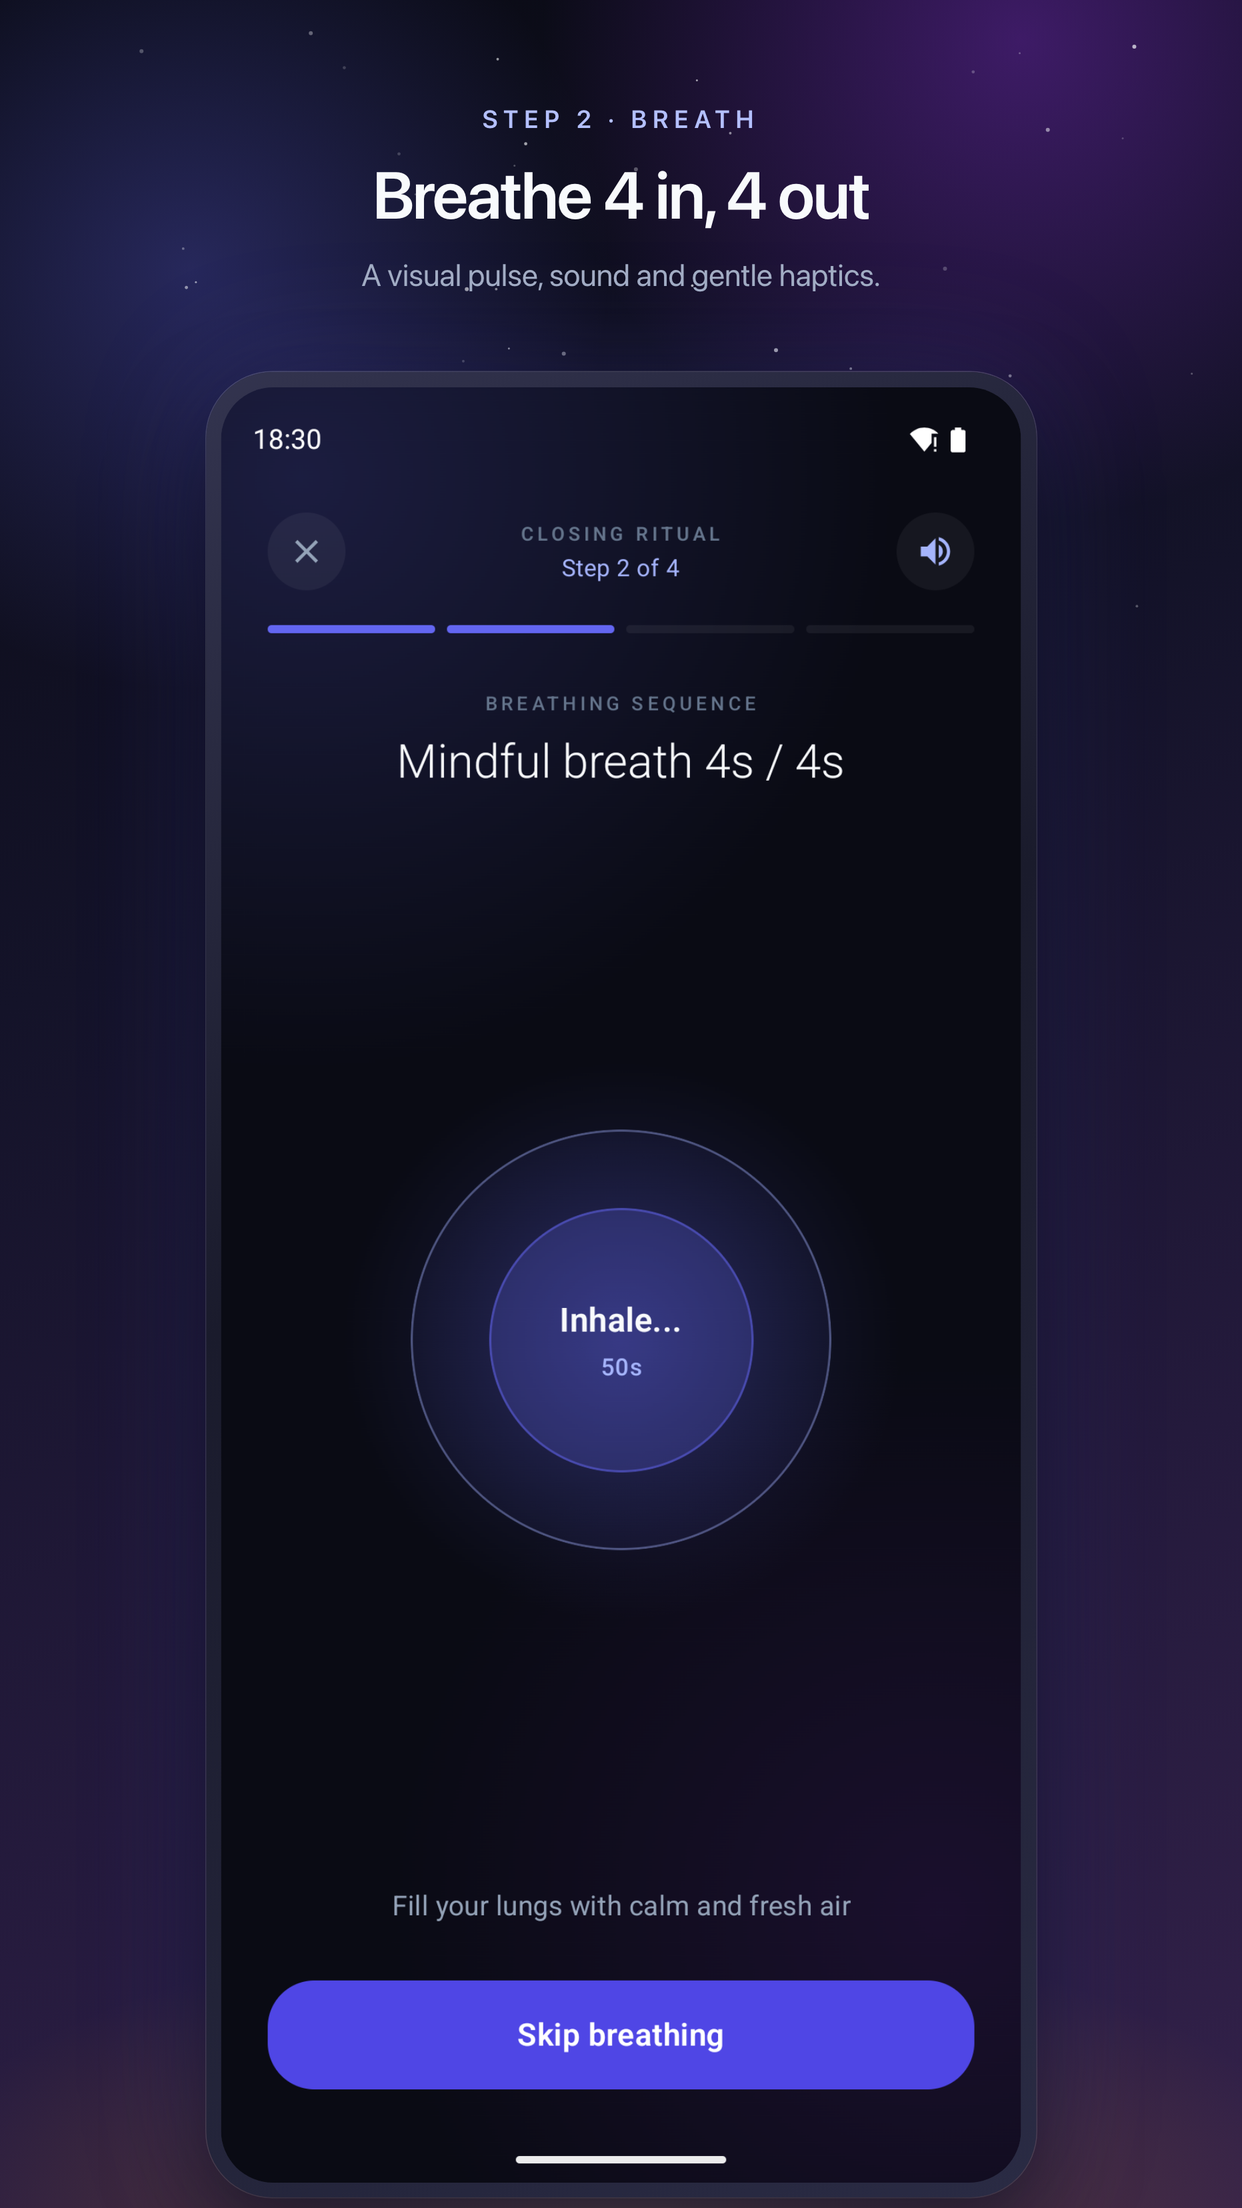
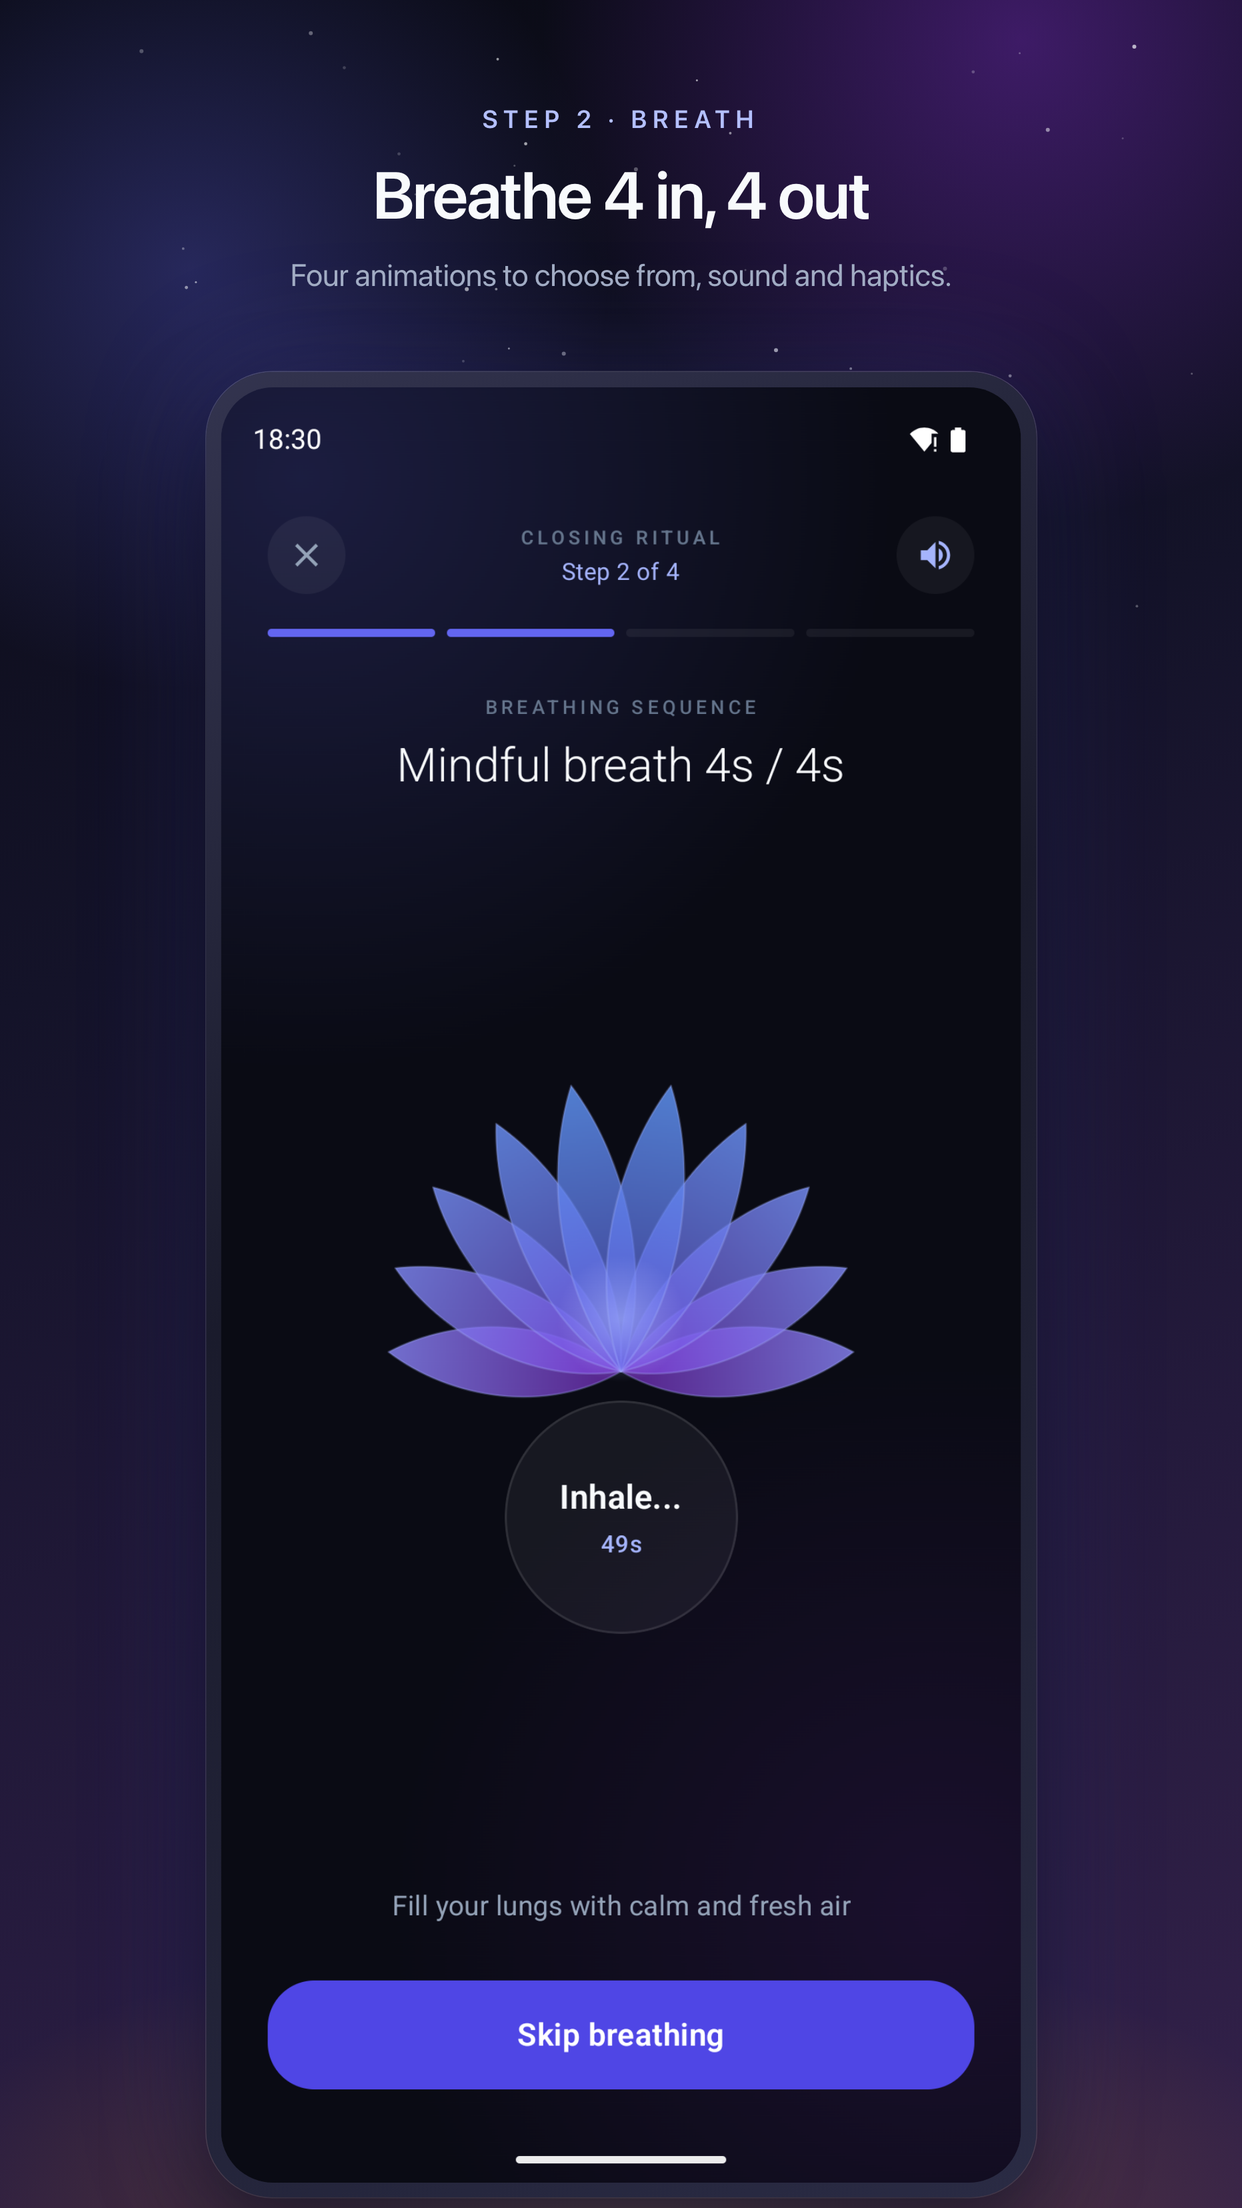
chore: screenshot dýchání pro Play ukazuje lotos
Přefoceno v obou jazycích na stejnou fázi dechu — plný květ, "Nádech" a
odpočet 49 s. Zbylých pět snímků se nezměnilo ani o bajt, protože hvězdné
pole jede z pevného seedu.

Podtitulek sliboval "vizuální pulz", což popisovalo starý kruh. Nově mluví
o čtyřech animacích na výběr, aby seděl na to, co je na snímku vidět.

Claude-Session: https://claude.ai/code/session_01XqfMBgijFfEt6tYmneXwRe

diff --git a/play/render-screenshots.py b/play/render-screenshots.py
@@ -28,7 +28,7 @@ SCREENS = {
     "cs": [
         ("01-home.png",      "DENNÍ RITUÁL",    "Uzavři den vědomě",     "Jeden rituál, čtyři krátké kroky."),
         ("02-question.png",  "KROK 1 · OTÁZKA", "Zaparkuj myšlenky",     "Nech práci za zavřenými dveřmi."),
-        ("03-breathing.png", "KROK 2 · DECH",   "Zklidni dech 4–4",      "Vizuální pulz, zvuk i jemná haptika."),
+        ("03-breathing.png", "KROK 2 · DECH",   "Zklidni dech 4–4",      "Čtyři animace na výběr, zvuk i jemná haptika."),
         ("04-lamp.png",      "KROK 3 · LAMPA",  "Zhasni pracovní lampu", "Symbolická tečka za dnešním dnem."),
         ("05-mood.png",      "KROK 4 · NÁLADA", "Zaznamenej náladu",     "Jedno klepnutí, žádné vyplňování."),
         ("06-history.png",   "PŘEHLED",         "Sleduj svůj týden",     "Bez nátlaku a bez trestů za vynechaný den."),
@@ -36,7 +36,7 @@ SCREENS = {
     "en": [
         ("01-home.png",      "DAILY RITUAL",      "Close the day on purpose", "One ritual, four short steps."),
         ("02-question.png",  "STEP 1 · QUESTION", "Park your thoughts",       "Leave work behind closed doors."),
-        ("03-breathing.png", "STEP 2 · BREATH",   "Breathe 4 in, 4 out",      "A visual pulse, sound and gentle haptics."),
+        ("03-breathing.png", "STEP 2 · BREATH",   "Breathe 4 in, 4 out",      "Four animations to choose from, sound and haptics."),
         ("04-lamp.png",      "STEP 3 · LAMP",     "Turn off the desk lamp",   "A symbolic full stop to the day."),
         ("05-mood.png",      "STEP 4 · MOOD",     "Log how you feel",         "One tap. Nothing to fill in."),
         ("06-history.png",   "OVERVIEW",          "See your week",            "No pressure, no penalty for a missed day."),
